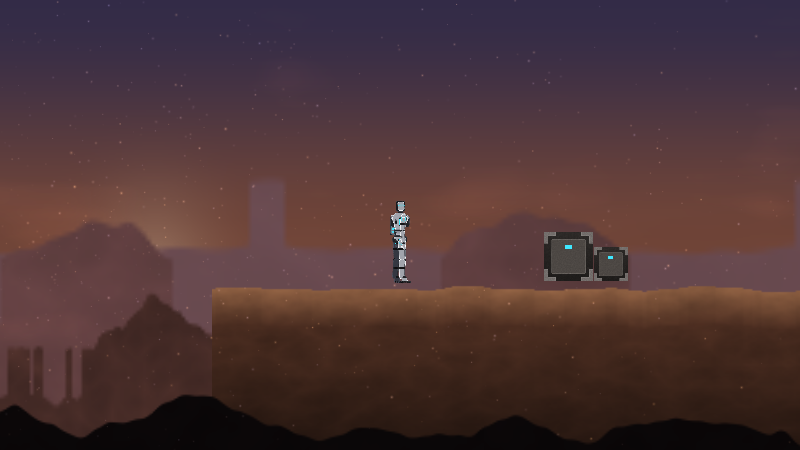
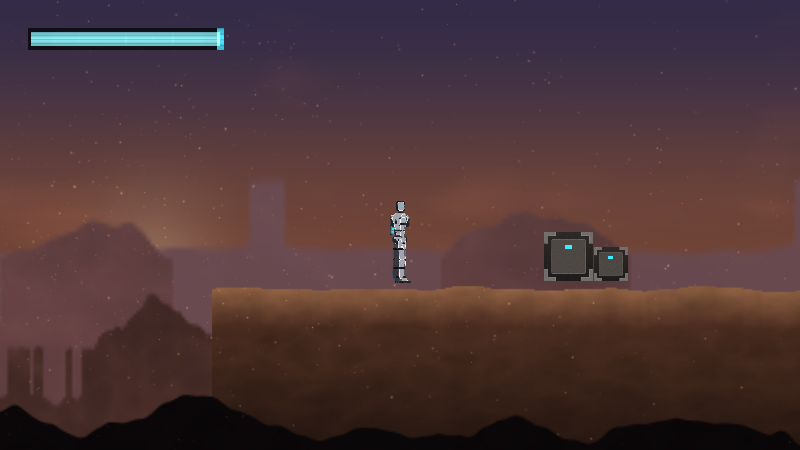
Add the HUD
An integrity gauge drawn after the composite, so it bypasses the biome colour
grade, the fog, and the vignette. Interface elements that get graded with the
scene shift colour from room to room, which makes them hardest to read exactly
when the player most needs them.

Two bars rather than one: the main value chases through a fast spring, and a
slow ghost trails behind it. The gap between them is the damage just taken,
which communicates the event far better than a bar that simply becomes shorter.
Below thirty percent the bar pulses, which is a more urgent signal than colour
alone and works for colourblind players. Quarter ticks let the value be read at
a glance instead of estimated from a length.

Needed its own flat sprite. The first version stretched the soft radial glow
across the bar and read as a lens flare rather than a gauge - a bar's value is
exactly where its edge is, and a soft edge has no value.

The whole HUD scales with the view height, so it occupies a constant fraction of
the screen at any zoom.

Changed region(s): [[0.0312, 0.0622, 0.2812, 0.1244]]

diff --git a/src/ui/hud.ts b/src/ui/hud.ts
@@ -1,0 +1,214 @@
+/**
+ * The heads-up display.
+ *
+ * Drawn as world-space quads through the same sprite batcher as everything
+ * else, but positioned in screen space and rendered *after* the composite, so
+ * it bypasses the biome's colour grade, the fog, and the vignette. HUD elements
+ * that get graded along with the scene change colour from room to room, which
+ * makes them harder to read exactly when the player most needs them.
+ *
+ * ## Design language
+ *
+ * Thin cyan strokes, hexagonal motifs, and a holographic scanline shimmer — the
+ * same vocabulary as Optimus's own optic strip, so the interface reads as
+ * something the machine is projecting rather than something the game has
+ * overlaid.
+ *
+ * ## Animation
+ *
+ * Nothing snaps. The integrity bar chases its target through a spring, so
+ * taking damage produces a visible lurch and recovery. A bar that jumps
+ * instantly to its new value communicates the number but not the event.
+ */
+
+import type { SpriteBatch } from '../gfx/batch.ts';
+import { packColor, packMaterial } from '../gfx/batch.ts';
+import { BlendMode } from '../gfx/device.ts';
+import type { Atlas } from '../art/atlas.ts';
+import type { Camera } from '../scene/camera.ts';
+import { spring, stepSpring, type SpringState } from '../core/math/spring.ts';
+import { clamp01 } from '../core/math/scalar.ts';
+import { OPTIMUS_CYAN } from '../core/config.ts';
+
+export class Hud {
+  /** Smoothed integrity value, chasing the real one. */
+  private readonly integrity: SpringState = spring(1);
+  /**
+   * A second, slower bar trailing behind.
+   *
+   * The gap between the two is the damage just taken, which is far more legible
+   * than a bar that simply becomes shorter.
+   */
+  private readonly integrityGhost: SpringState = spring(1);
+
+  private time = 0;
+  /** Rises when damage is taken, driving a red flash. */
+  private damageFlash = 0;
+  private previousHealth = 1;
+
+  constructor(private readonly atlas: Atlas) {}
+
+  update(healthFraction: number, dt: number): void {
+    this.time += dt;
+
+    if (healthFraction < this.previousHealth - 0.001) {
+      this.damageFlash = 1;
+    }
+    this.previousHealth = healthFraction;
+    this.damageFlash = Math.max(0, this.damageFlash - dt * 2.2);
+
+    stepSpring(this.integrity, healthFraction, { frequency: 5.5, damping: 0.8 }, dt);
+    // The ghost is deliberately slow and heavily damped, so it drains
+    // visibly behind the main bar.
+    stepSpring(this.integrityGhost, healthFraction, { frequency: 1.1, damping: 1.0 }, dt);
+  }
+
+  /**
+   * Draws the HUD.
+   *
+   * Coordinates are in world units placed relative to the camera, which is what
+   * lets the same batcher and view matrix serve both the world and the
+   * interface without a second projection.
+   */
+  draw(batch: SpriteBatch, camera: Camera, healthFraction: number): void {
+    const fill = this.atlas.get('barFill');
+    const panel = this.atlas.get('panel');
+
+    batch.setTextures(this.atlas.textures);
+    batch.setBlend(BlendMode.Premultiplied);
+
+    // Anchor to the top-left of the view.
+    const halfHeight = camera.viewHeightMetres / 2;
+    const halfWidth = camera.viewWidthMetres / 2;
+    const left = camera.x - halfWidth;
+    const top = camera.y - halfHeight;
+
+    // Scale the whole HUD with the view, so it occupies a constant fraction of
+    // the screen at any zoom.
+    const unit = camera.viewHeightMetres / 10;
+
+    const originX = left + unit * 0.7;
+    const originY = top + unit * 0.7;
+
+    const barWidth = unit * 4.2;
+    const barHeight = unit * 0.32;
+
+    const material = packMaterial(0.85, 1, 0, 0);
+    const cyan = OPTIMUS_CYAN;
+
+    // --- Backing plate -----------------------------------------------------
+    batch.draw(
+      originX + barWidth / 2,
+      originY + barHeight / 2,
+      barWidth + unit * 0.16,
+      barHeight + unit * 0.16,
+      panel.u0,
+      panel.v0,
+      panel.u1,
+      panel.v1,
+      0,
+      packColor(0.03, 0.04, 0.05, 0.72),
+      packMaterial(0, 1, 0, 0),
+      0,
+    );
+
+    // --- Ghost bar ---------------------------------------------------------
+    const ghost = clamp01(this.integrityGhost.value);
+    if (ghost > 0.001) {
+      batch.setBlend(BlendMode.Additive);
+      batch.draw(
+        originX + (barWidth * ghost) / 2,
+        originY + barHeight / 2,
+        barWidth * ghost,
+        barHeight,
+        fill.u0,
+        fill.v0,
+        fill.u1,
+        fill.v1,
+        0,
+        // Amber, so the damage taken is a different colour to the health left.
+        packColor(0.55 * 0.5, 0.22 * 0.5, 0.08 * 0.5, 0.5),
+        material,
+        0,
+      );
+    }
+
+    // --- Main bar ----------------------------------------------------------
+    const value = clamp01(this.integrity.value);
+    if (value > 0.001) {
+      // Low integrity pulses, which is a far more urgent signal than colour
+      // alone and works for colourblind players.
+      const critical = value < 0.3 ? 1 : 0;
+      const pulse = 1 + critical * Math.sin(this.time * 9) * 0.28;
+
+      const r = cyan.r * pulse + this.damageFlash * 1.2;
+      const g = cyan.g * pulse * (1 - critical * 0.55);
+      const b = cyan.b * pulse * (1 - critical * 0.6);
+
+      batch.draw(
+        originX + (barWidth * value) / 2,
+        originY + barHeight / 2,
+        barWidth * value,
+        barHeight,
+        fill.u0,
+        fill.v0,
+        fill.u1,
+        fill.v1,
+        0,
+        packColor(r * 0.85, g * 0.85, b * 0.85, 0.9),
+        material,
+        0,
+      );
+
+      // A bright cap at the leading edge, which gives the bar a defined end
+      // rather than a soft fade.
+      batch.draw(
+        originX + barWidth * value,
+        originY + barHeight / 2,
+        unit * 0.16,
+        barHeight * 1.5,
+        fill.u0,
+        fill.v0,
+        fill.u1,
+        fill.v1,
+        0,
+        packColor(r, g, b, 1),
+        material,
+        0,
+      );
+    }
+
+    // --- Segment ticks -----------------------------------------------------
+    // Quarter markers, so the player can read the value at a glance instead of
+    // estimating a length.
+    for (let i = 1; i < 4; i++) {
+      const x = originX + (barWidth * i) / 4;
+      batch.draw(
+        x,
+        originY + barHeight / 2,
+        unit * 0.035,
+        barHeight * 0.85,
+        fill.u0,
+        fill.v0,
+        fill.u1,
+        fill.v1,
+        0,
+        packColor(0.02, 0.03, 0.04, 0.75),
+        packMaterial(0, 1, 0, 0),
+        0,
+      );
+    }
+
+    void healthFraction;
+    batch.setBlend(BlendMode.Premultiplied);
+  }
+
+  reset(): void {
+    this.integrity.value = 1;
+    this.integrity.velocity = 0;
+    this.integrityGhost.value = 1;
+    this.integrityGhost.velocity = 0;
+    this.damageFlash = 0;
+    this.previousHealth = 1;
+  }
+}

diff --git a/src/art/library.ts b/src/art/library.ts
@@ -404,6 +404,28 @@ export function makeDrone(size: number, seed: number): Surface {
   return surface;
 }
 
+/** A flat interface fill with hard edges and a holographic scanline. */
+export function makeBarFill(width: number, height: number): Surface {
+  const surface = createSurface(width, height);
+  for (let y = 0; y < height; y++) {
+    // Brighter through the middle, so the bar has a slight tube-like read
+    // rather than being a dead flat rectangle.
+    const t = y / (height - 1);
+    const core = 1 - Math.abs(t - 0.5) * 1.3;
+    // Scanlines: the holographic motif shared with the visor and consoles.
+    const scan = y % 4 === 0 ? 0.78 : 1;
+    const value = clamp01(0.55 + core * 0.45) * scan;
+    for (let x = 0; x < width; x++) {
+      const index = y * width + x;
+      setPixel(surface, x, y, value, value, value, 1);
+      surface.emissive[index] = 1;
+      surface.roughness[index] = 1;
+      surface.heightField[index] = 0;
+    }
+  }
+  return surface;
+}
+
 /** Builds the initial atlas source list. */
 export function buildCoreAtlasSources(): AtlasSource[] {
   const sources: AtlasSource[] = [];
@@ -448,6 +470,17 @@ export function buildCoreAtlasSources(): AtlasSource[] {
   sources.push({
     // Written additively into the contact-occlusion buffer, so this is a
     // *density* map: white with a soft radial alpha, not a dark sprite.
+    // A flat fill with hard edges and a faint horizontal scanline.
+    //
+    // Interface bars need definite ends. Stretching the soft radial glow across
+    // a bar makes it read as a lens flare rather than a gauge, because the
+    // value is exactly where the edge is and a soft edge has no value.
+    name: 'barFill',
+    surface: makeBarFill(64, 16),
+    widthMetres: 1,
+  });
+
+  sources.push({
     name: 'drone',
     surface: makeDrone(metresToTexels(0.85, 3), 0xd40e),
     widthMetres: 0.85,

diff --git a/src/game/game.ts b/src/game/game.ts
@@ -43,6 +43,7 @@ import { AudioEngine } from '../audio/engine.ts';
 import { Sfx } from '../audio/sfx.ts';
 import { Ambience } from '../audio/ambience.ts';
 import { DroneState as DS } from './enemies/drone.ts';
+import { Hud } from '../ui/hud.ts';
 import { clamp01 } from '../core/math/scalar.ts';
 
 const driftNoise = new NoiseField(0x4d51);
@@ -62,6 +63,7 @@ export class Game {
   player!: PlayerController;
   animator!: OptimusAnimator;
   private optimusRenderer!: OptimusRenderer;
+  private hud!: Hud;
 
   /**
    * All airborne particulate.
@@ -160,6 +162,7 @@ export class Game {
 
     this.animator = new OptimusAnimator();
     this.optimusRenderer = new OptimusRenderer(this.atlas, this.animator.skeleton);
+    this.hud = new Hud(this.atlas);
     this.player = new PlayerController(this.physics, this.room.spawn.x, this.room.spawn.y);
     this.autopilot = new Autopilot(this.physics, this.player);
 
@@ -649,6 +652,8 @@ export class Game {
     }
     this.dashTrail.update(unscaledDt);
 
+    this.hud.update(this.playerHealth / 100, unscaledDt);
+
     this.updateLights();
     this.updateGodRaySource();
 
@@ -661,6 +666,7 @@ export class Game {
       drawOccluders: (batch) => this.drawOccluders(batch),
       drawContactAO: (batch) => this.drawContactAO(batch),
       emitParticles: (quads, submit) => this.emitParticles(quads, submit),
+      drawUI: (batch) => this.hud.draw(batch, this.camera, this.playerHealth / 100),
     });
 
     if (this.loop) {
